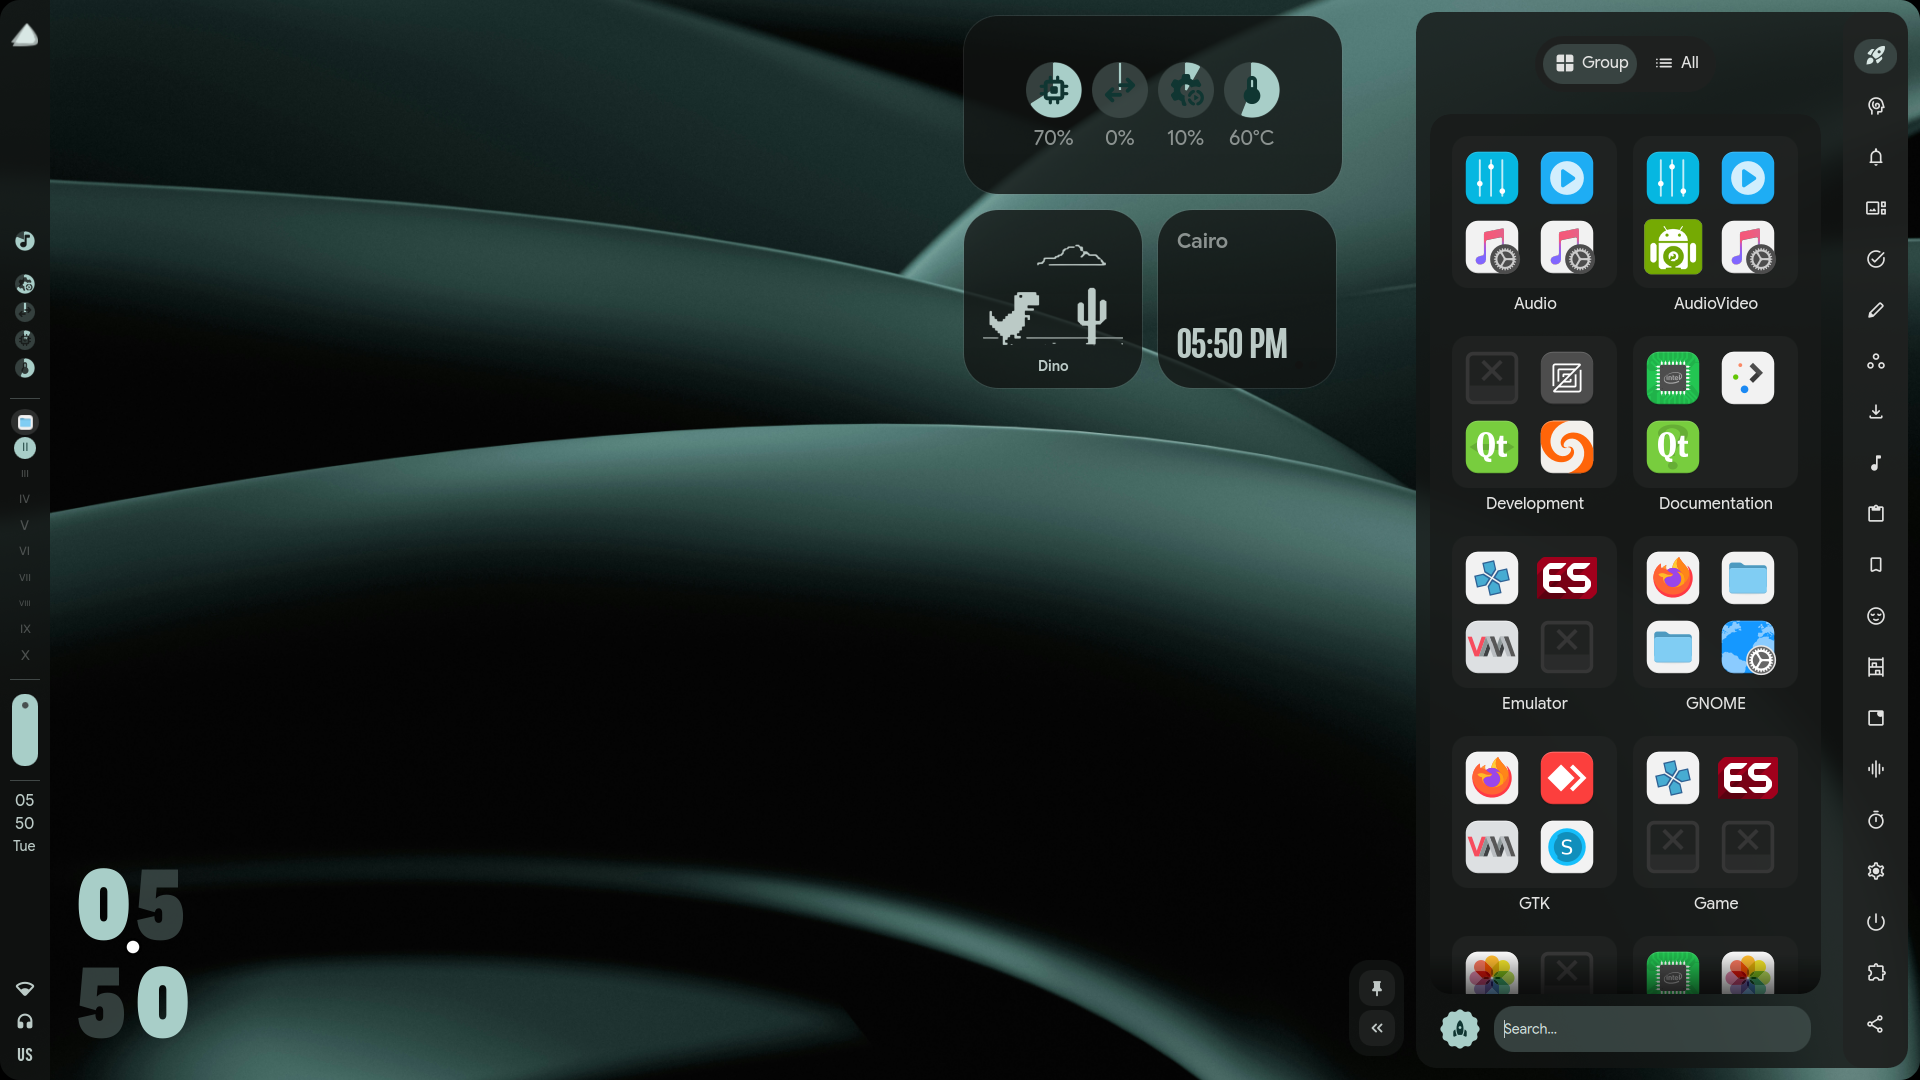
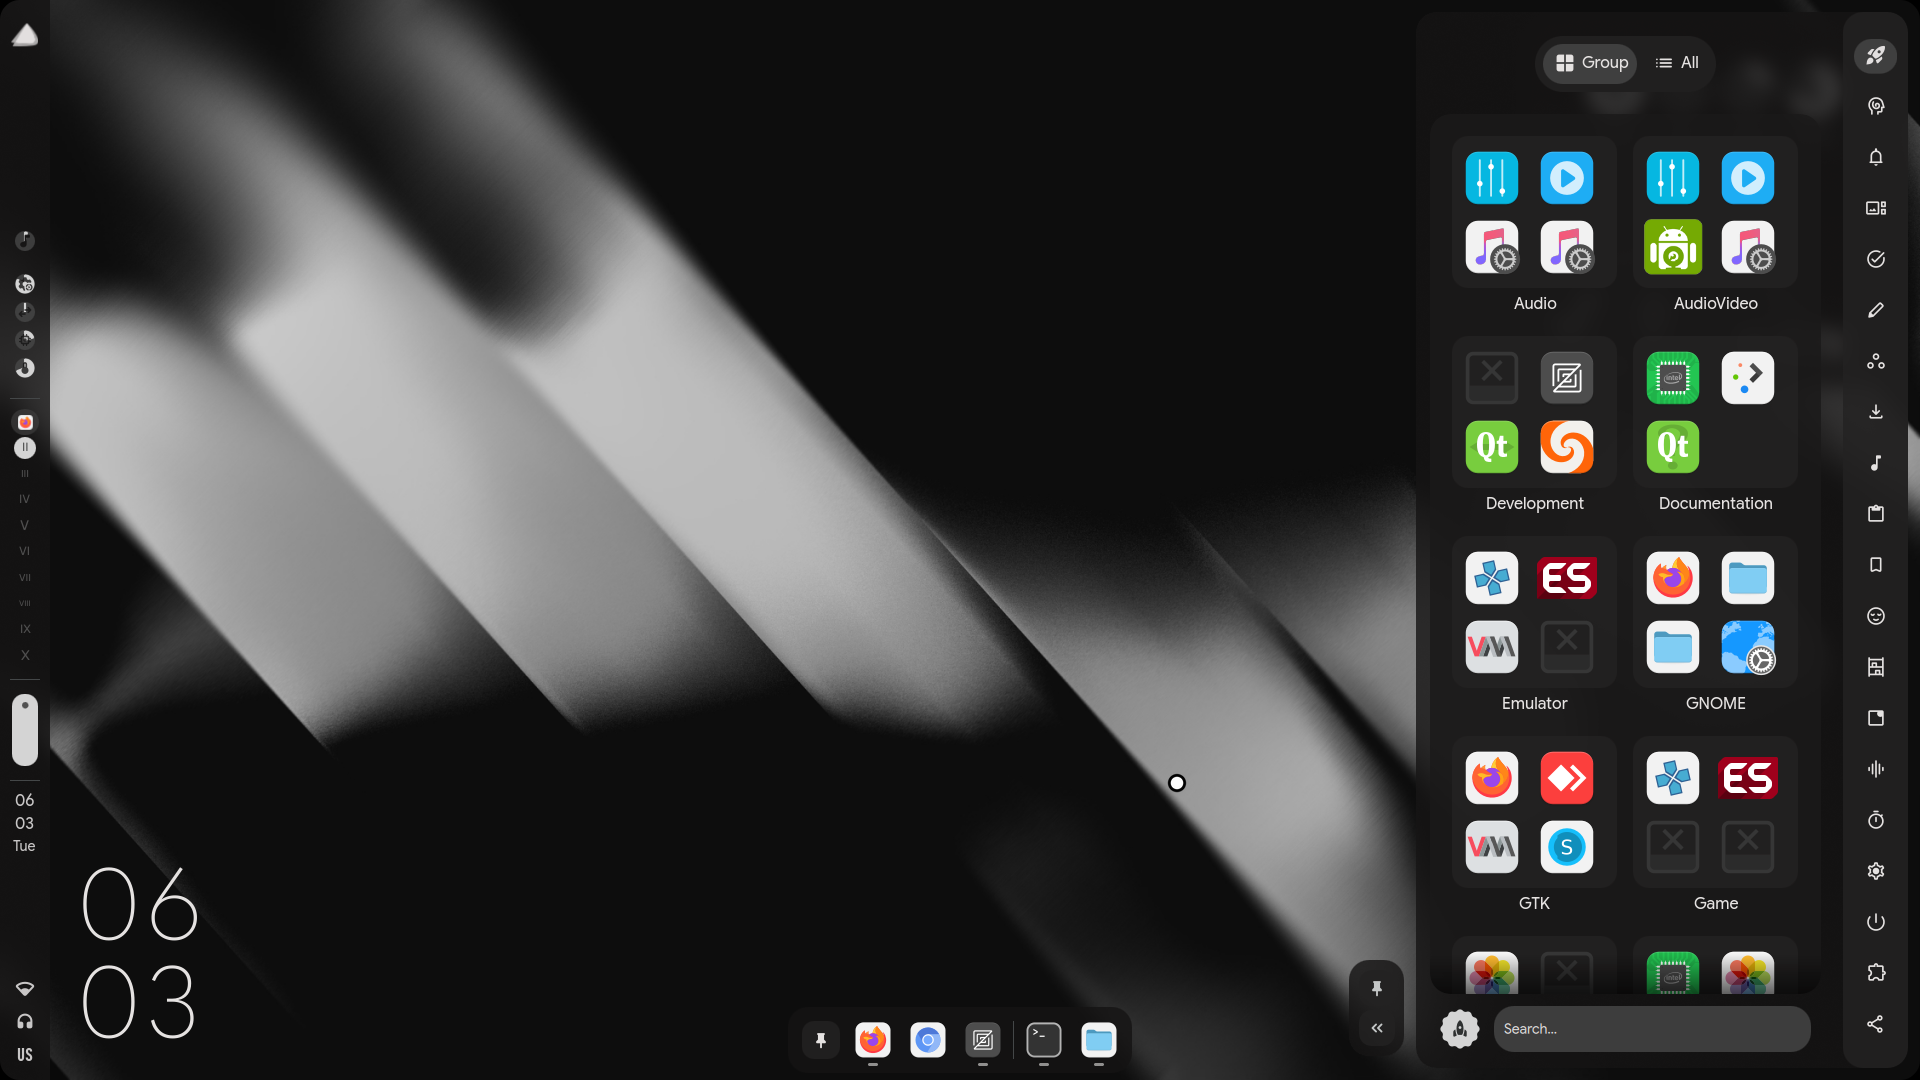
add screenshots

diff --git a/docs/.vitepress/theme/components/Carousel.vue b/docs/.vitepress/theme/components/Carousel.vue
@@ -124,10 +124,6 @@ watch(lightbox, (open) => {
                         />
                         <div class="lb-footer">
                             <span class="lb-title">{{ items[cur].title }}</span>
-                            <span class="lb-hint">
-                                <span class="ms">keyboard</span> ← → to navigate
-                                · esc to close
-                            </span>
                         </div>
                     </div>
                 </div>
@@ -364,25 +360,6 @@ watch(lightbox, (open) => {
     font-weight: 550;
     color: #fff;
     letter-spacing: 0.01em;
-}
-
-.lb-hint {
-    display: flex;
-    align-items: center;
-    gap: 5px;
-    font-size: 11px;
-    font-weight: 400;
-    color: rgba(255, 255, 255, 0.45);
-    letter-spacing: 0.02em;
-    white-space: nowrap;
-}
-.lb-hint .ms {
-    font-size: 13px;
-    font-variation-settings:
-        "FILL" 0,
-        "wght" 300,
-        "GRAD" 0,
-        "opsz" 20;
 }
 
 .lb-enter-active,

diff --git a/docs/pages/screenshots.md b/docs/pages/screenshots.md
@@ -3,8 +3,11 @@ The Project is under hyperdevelopment so all those might change
 And There is always more...
 
 <Carousel :items="[
-  { title: 'Clipboard', img: '../assets/images/1.png' },
-  { title: 'Expose', img: '../assets/images/2.png' },
+  { title: 'M3 Style Widgets', img: '../assets/images/1.png' },
+  { title: 'Light Desktop View', img: '../assets/images/2.png' },
   { title: 'Live Lyrics', img: '../assets/images/3.png' },
-  { title: 'Desktop View', img: '../assets/images/4.png' },
+  { title: 'Apps', img: '../assets/images/4.png' },
+  { title: 'Beam', img: '../assets/images/5.png' },
+  { title: 'Wallpapers', img: '../assets/images/6.png' },
+  { title: 'Dock & Tweaks', img: '../assets/images/7.png' },
 ]" />